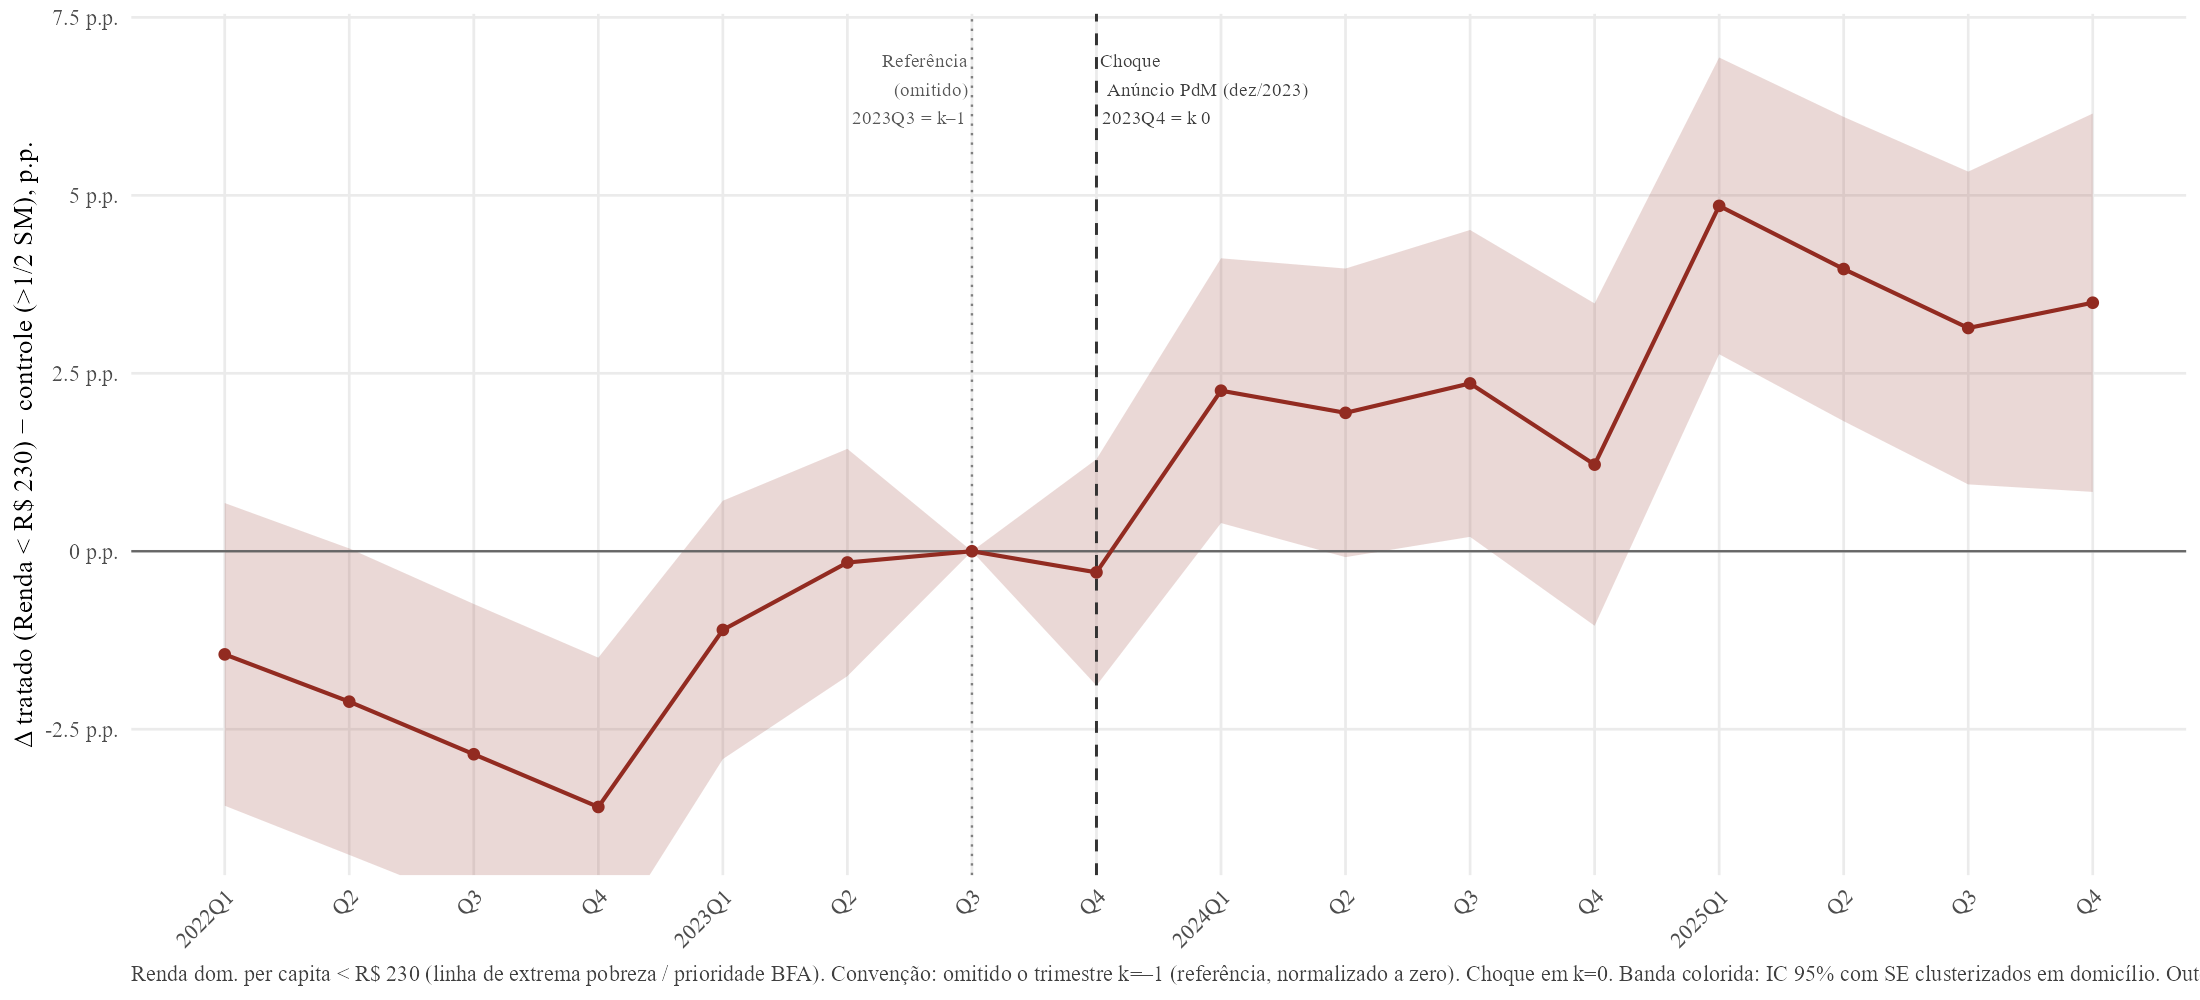
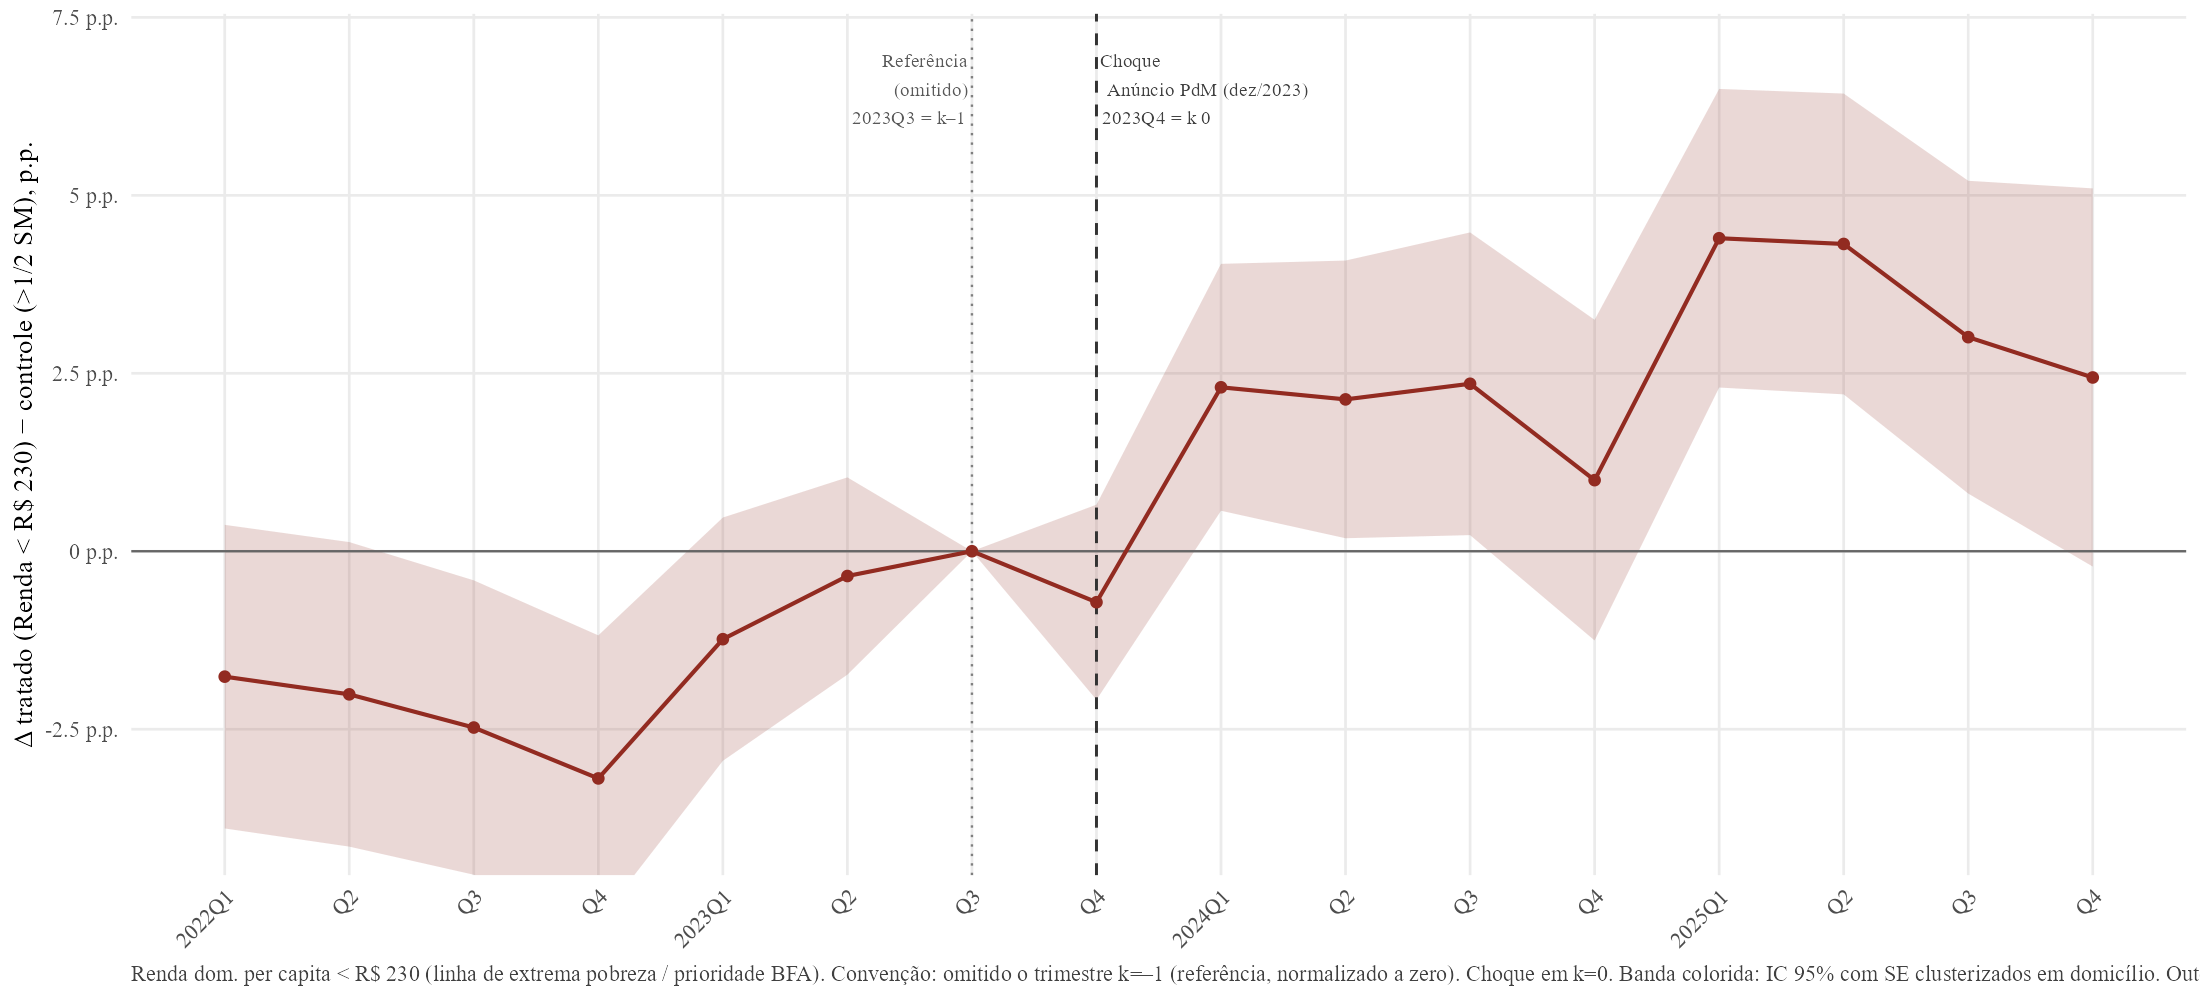
Rodada 36: classificacao ESTAVEL por HH (resolve pre-trend endogeno)
Autor identificou problema com pre-trends. Solucao: classificar cada
HH pela renda na PRIMEIRA observacao do painel, sem reclassificar a
cada trim.

Antes: renda oscilava trim-a-trim por V403312/V2001 -> HHs migravam
entre grupos -> 'tratamento' espurio gerava pre-trend.

Depois (C33):
- Para cada hh_id, primeira obs determina grupo
- Mantida classificacao em todas obs posteriores

Tamanhos amostrais (15-19, 2022-2025):
- control 231k, extreme 157k, low 166k

Resultados:
- F17a (extreme): pre-trends mais flat, leve dip 2022Q4 ainda
- F17b (low): pre-trends MUITO melhores (~0)
- Post-period efeitos preservados

Caveat: F17a ainda tem residuo CAPI->CATI em 2022. Considerar
restringir pre-period a 2023 em versao futura.

diff --git a/DataWork/3_Indicators/code/C33_micro_for_twfe.py b/DataWork/3_Indicators/code/C33_micro_for_twfe.py
@@ -86,15 +86,32 @@ df["meio_sm"] = df["sm"] / 2.0
 df["linha_extrema"] = LINHA_EXTREMA
 # } ----
 
-# { 4. Define groups (mutually exclusive) ----
-df = df.dropna(subset=["renda_pc"]).copy()
-df["treat_extreme"] = (df["renda_pc"] < LINHA_EXTREMA).astype(int)
-df["treat_low"]     = ((df["renda_pc"] >= LINHA_EXTREMA) &
-                        (df["renda_pc"] <= df["meio_sm"])).astype(int)
-df["control"]       = (df["renda_pc"] > df["meio_sm"]).astype(int)
-df["grupo"] = np.where(df["treat_extreme"] == 1, "extreme",
-              np.where(df["treat_low"] == 1, "low",
-                       "control"))
+# { 4. Classificacao ESTAVEL por HH baseada na PRIMEIRA observacao ----
+# Para cada hh_id, identifica o primeiro (Ano, Trimestre) em que aparece
+# e fixa o grupo de tratamento com base na renda_pc desse primeiro momento.
+# Isso evita reclassificacao endogena entre trimestres.
+print("\nClassificacao estavel: primeira renda observada por HH...", flush=True)
+df_sorted = df.dropna(subset=["renda_pc"]).copy()
+df_sorted["q_idx_tmp"] = (df_sorted["Ano"] - 2022) * 4 + df_sorted["Trimestre"]
+first_obs = (df_sorted.sort_values(["hh_id", "q_idx_tmp"])
+             .drop_duplicates(subset=["hh_id"], keep="first"))
+# Para a primeira obs do HH, classifica
+first_obs["grupo_estavel"] = np.where(
+    first_obs["renda_pc"] < LINHA_EXTREMA, "extreme",
+    np.where(first_obs["renda_pc"] <= first_obs["meio_sm"], "low",
+             "control"))
+first_obs["q_first"] = first_obs["q_idx_tmp"]
+hh_classif = first_obs[["hh_id", "grupo_estavel", "q_first"]]
+print(f"  HHs classificados: {len(hh_classif):,}", flush=True)
+print(hh_classif["grupo_estavel"].value_counts(), flush=True)
+
+# Merge de volta no painel inteiro
+df = df.merge(hh_classif, on="hh_id", how="left")
+df = df.dropna(subset=["grupo_estavel"]).copy()
+df["grupo"]         = df["grupo_estavel"]
+df["treat_extreme"] = (df["grupo"] == "extreme").astype(int)
+df["treat_low"]     = (df["grupo"] == "low").astype(int)
+df["control"]       = (df["grupo"] == "control").astype(int)
 # } ----
 
 # { 5. Outcome and time vars ----

diff --git a/CHANGELOG.md b/CHANGELOG.md
@@ -1687,3 +1687,47 @@ da linha de extrema pobreza BFA R$ 218 desde jun/2023).
 ### Arquivos atualizados
 - C32, C33, C35, C36 com novo threshold
 - F15, F16, F17a, F17b re-renderizados com novos labels
+
+---
+
+## 2026-06-26 — Rodada 36: Classificação ESTÁVEL por HH
+
+Autor identificou problema com pre-trends em F17a. Solução
+implementada: fixar o grupo de tratamento de cada domicílio pela
+renda observada em sua **primeira aparição** no painel, em vez de
+reclassificar a cada trimestre (que era endógeno).
+
+### Mecanismo do problema anterior
+Renda dom. per capita flutua trimestre a trimestre. Famílias entram/
+saem do grupo "Renda < R$ 230" conforme oscila V403312 e composição
+domiciliar (V2001). Essa reclassificação contemporânea gera variação
+"de tratamento" mecânica que aparece como pre-trend espúrio.
+
+### Implementação
+Em C33, para cada hh_id:
+1. Ordena observações por (Ano, Trimestre)
+2. Pega a PRIMEIRA observação
+3. Classifica em extreme/low/control com base na renda dessa obs
+4. Mantém essa classificação para TODAS as observações posteriores
+   do mesmo HH
+
+### Tamanhos amostrais (15-19, 2022-2025)
+
+| Grupo | Old (contemp) | New (estável) |
+|---|---|---|
+| control | 233,318 | 231,146 |
+| extreme | 154,690 | 157,128 |
+| low     | 166,031 | 165,765 |
+
+Pequenas diferenças (alguns HHs sem renda_pc na 1a obs caem fora).
+
+### Resultados pós-fix
+- F17a: pre-trends mais flat 2022Q1-2023Q3, ainda com dip em 2022Q4
+- F17b: pre-trends MUITO melhores, oscilando em ±0.5 p.p.
+
+### Caveat remanescente
+F17a ainda tem leve pre-trend em 2022 (efeito CAPI->CATI residual).
+Para identificação mais rigorosa, considerar:
+- Restringir pre-period a 2023 apenas
+- Honest DiD (Rambachan-Roth) para bounds
+- Sintetic control com matching pre-período